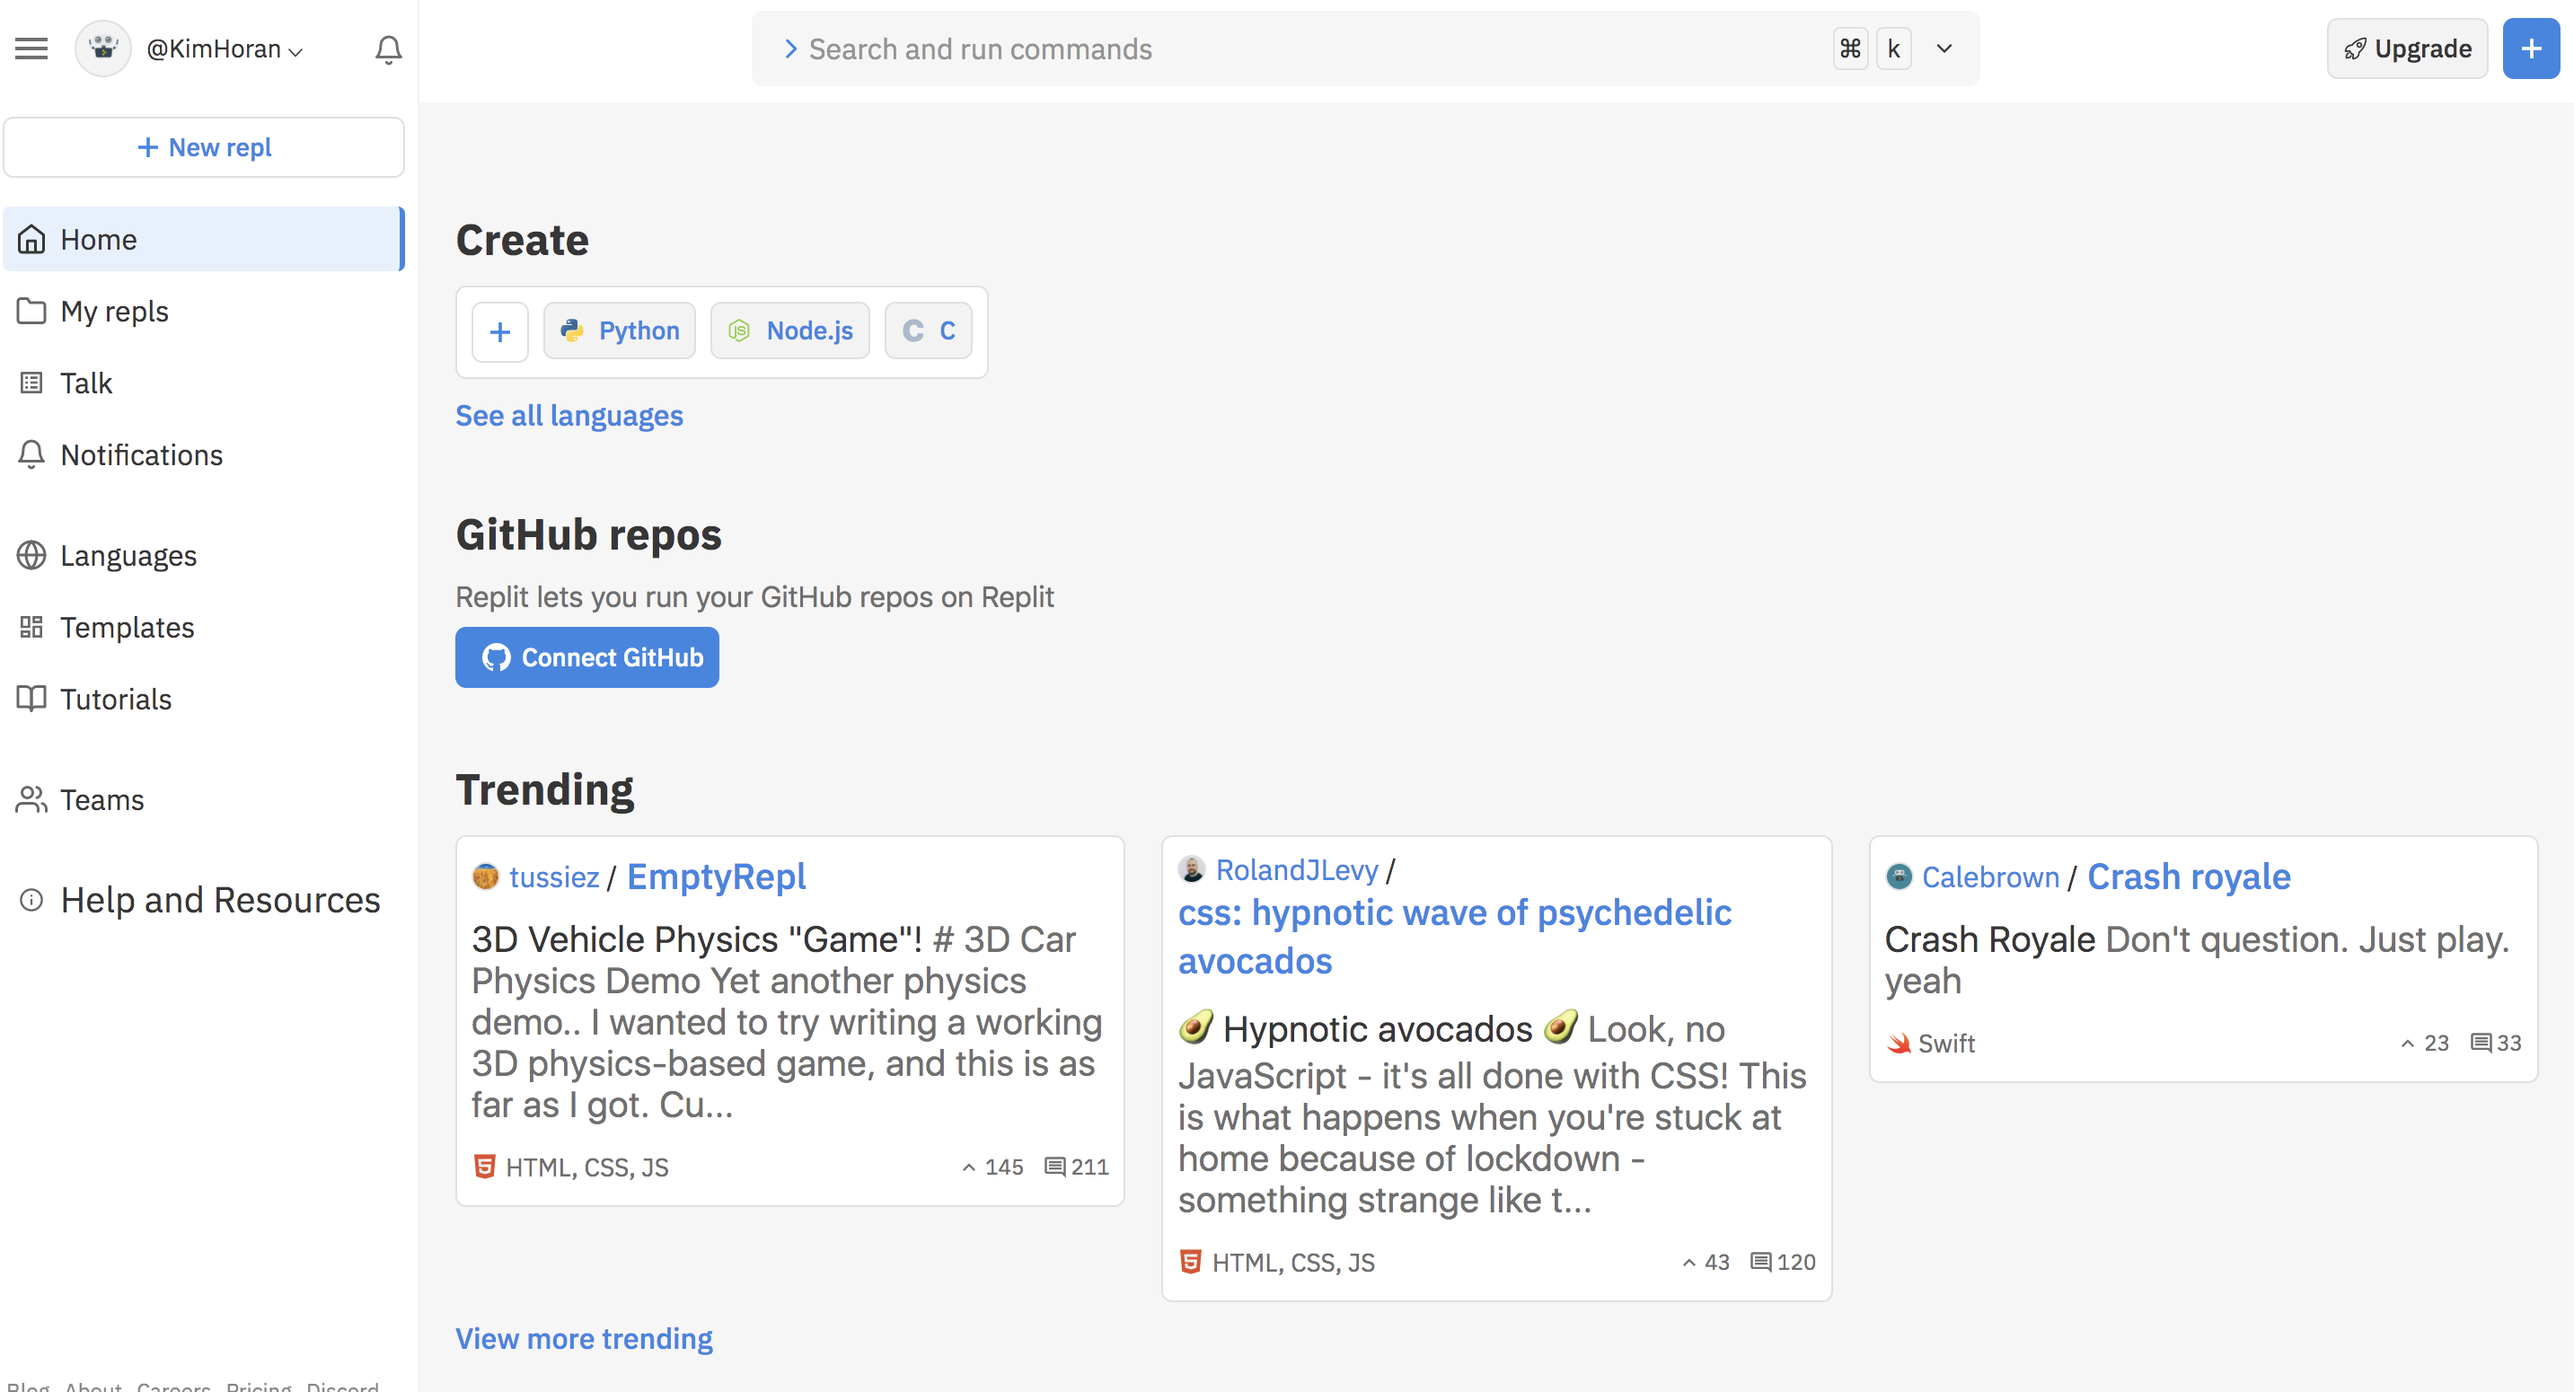
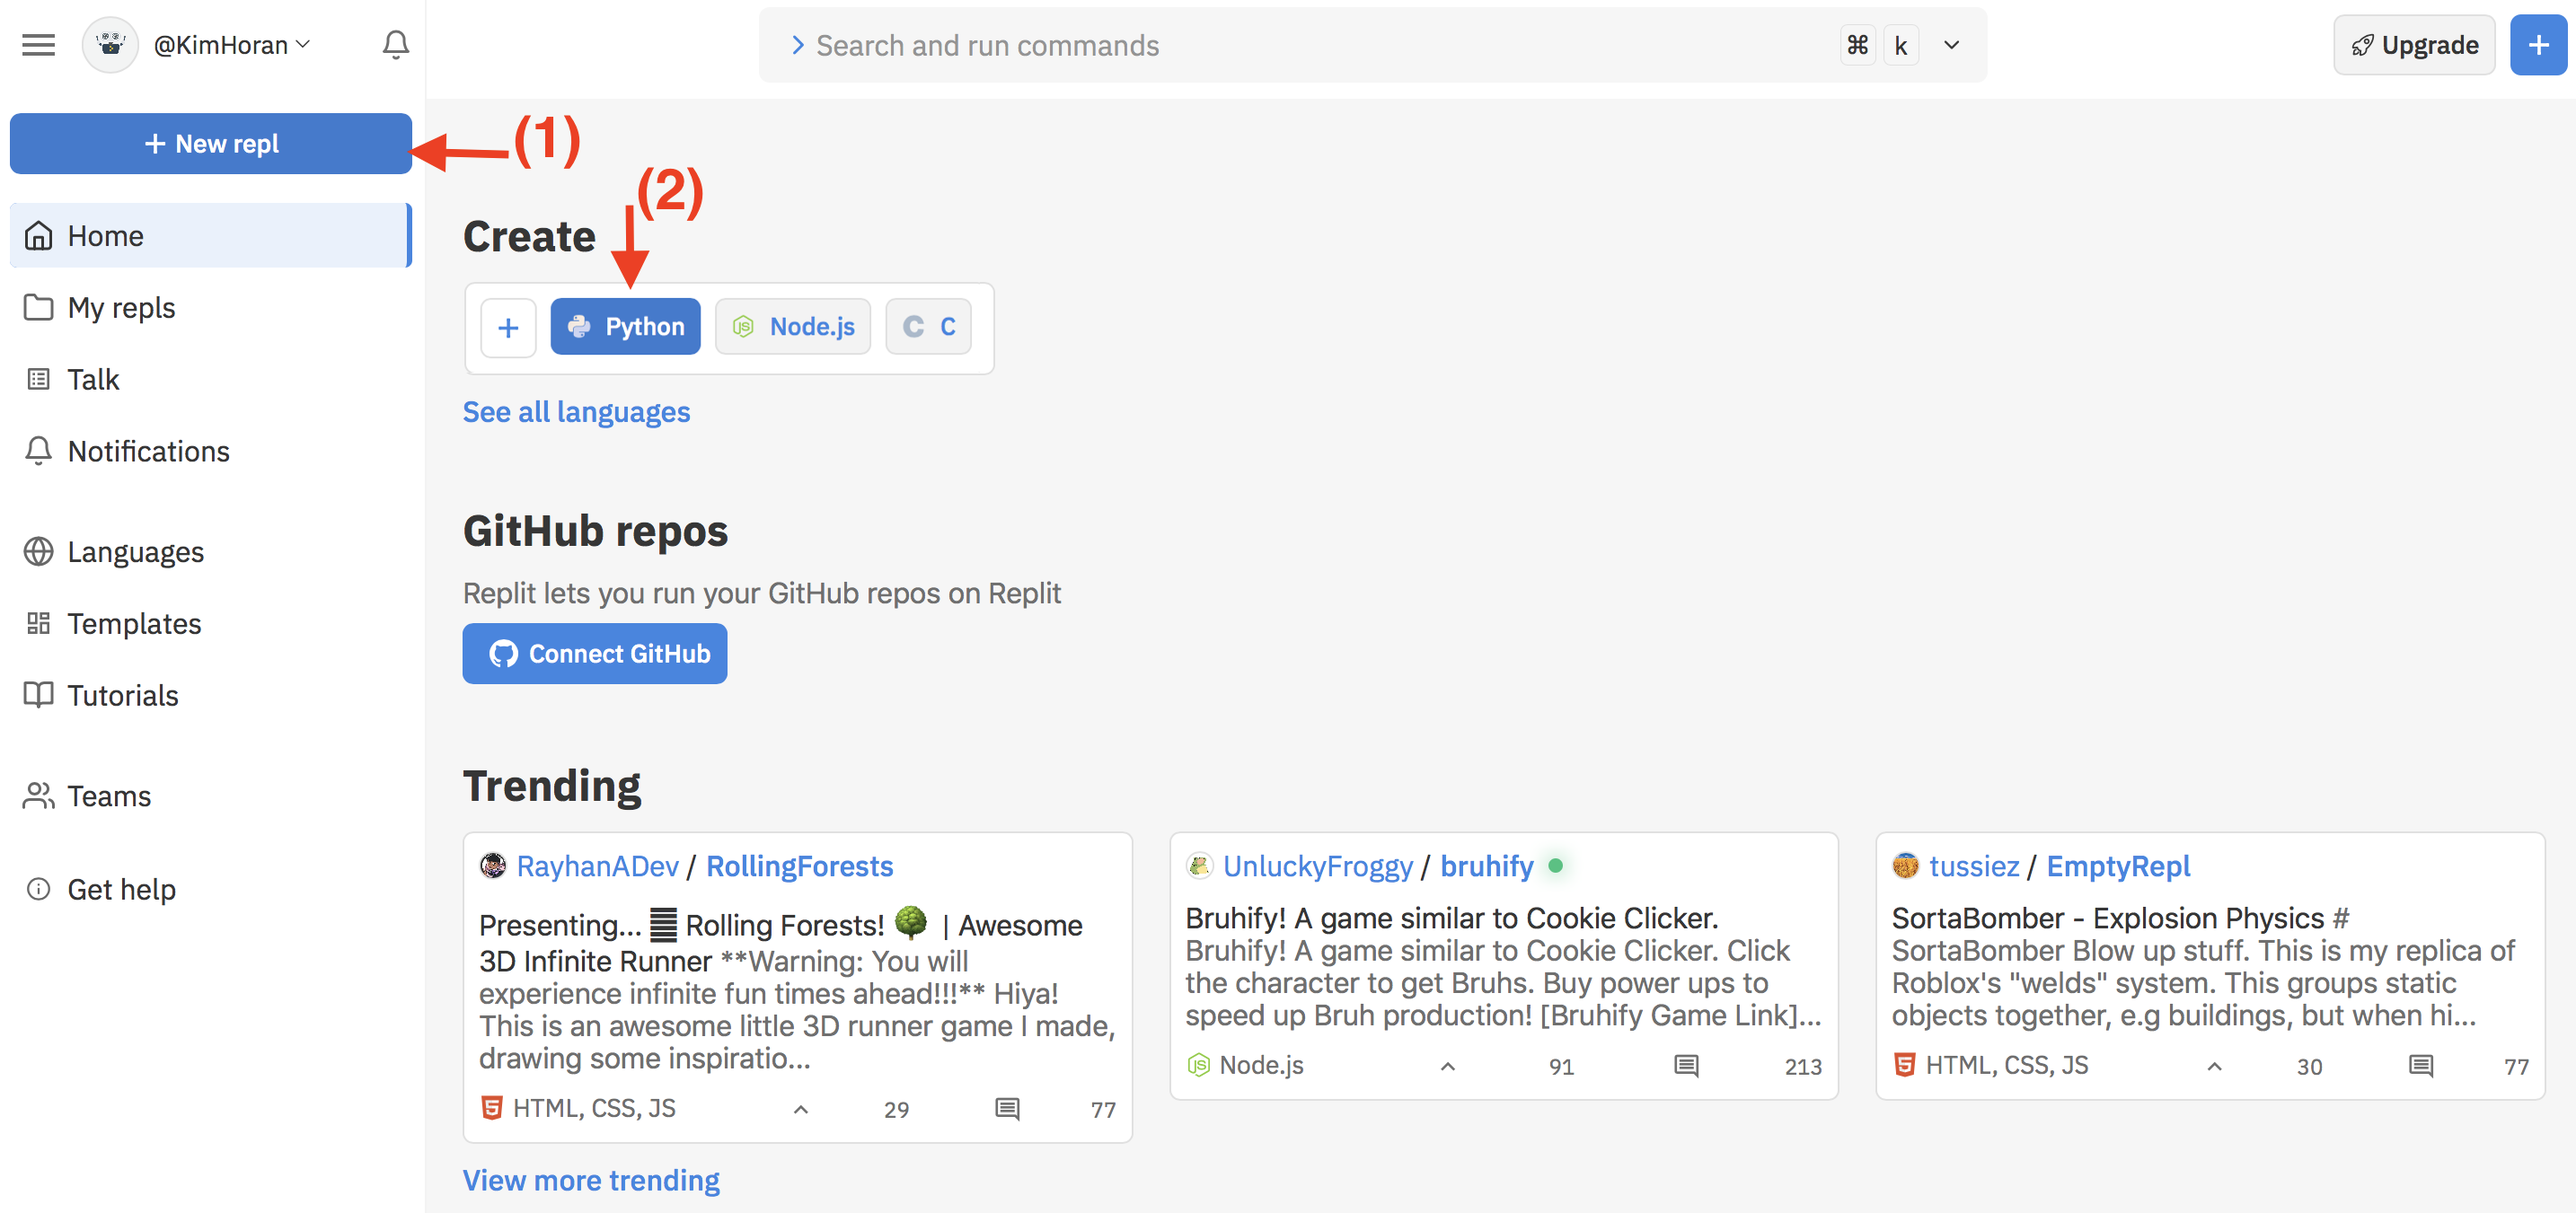
2nd round of PR changes

diff --git a/src/chapters/how-programs-work/replit.rst b/src/chapters/how-programs-work/replit.rst
@@ -21,15 +21,16 @@ Create a new student account with `Replit.com <https://replit.com/signup>`__.
    :alt: The Replit.com sign-up screen.
 
 After you sign in, you will see your *Home* screen, which displays your recent
-work and announcements. Since you are just starting out, you won't need to do
-much on this screen.
+work and announcements. Since you are just starting out, you won’t need to do much on this screen. 
+
+To begin a new project click on *+ new repl (1) or under Create / Python(2)*. 
 
 .. figure:: figures/replit-home.png
    :alt: Replit.com home screen.
 
    Home screen
 
-Click on *new repl (1) or (2)* to begin a new project. Scroll through the options and
+The following screen will pop up. Scroll through the options and
 select *Python (3)*. Next, name your project (4) and click *Create Repl (5)*.
 
 .. figure:: figures/replit-newrepl.png
@@ -79,22 +80,25 @@ menu bars next to your username and selecting *My Repls*.
    :alt: Main menu dropdown options.
 
    
-Forking - Creating your own copy
+Forking - Creating Your Own Copy
 --------------------------------
-.. figure:: figures/replit-forking.png
-   :alt: Replit.com how to copy/fork someone elses repl   
+.. index:: ! fork button   
 
 **Fork button**: If you are viewing someone elses project, or clicking on a Repl from this workbook you can *fork*
 the content and save a copy of the project to your own account. This
 allows you to edit the files without changing the originals, and it lets
 you use other programmers' work (with permission) to enhance your own.  
 
+.. figure:: figures/replit-forking.png
+   :alt: Replit.com how to copy/fork someone elses repl   
+
 .. admonition:: Note
 
    If you are not signed into your Replit account, a prompt to sign-in will appear when you try to fork. 
 
+You may notice the Edit in workspace button and think thats what you want.  However the following warning will pop up. Again, you want your own copy and to *fork* the repl!  
+
 .. figure:: figures/replit-edit_in_workspace.png
    :alt: Replit.com why you don't want to press edit in workspace button  
 
-You may notice the Edit in workspace button and think thats what you want.  However the following warning will pop up. Again, you want your own copy and to *fork* the repl!
-  
+
